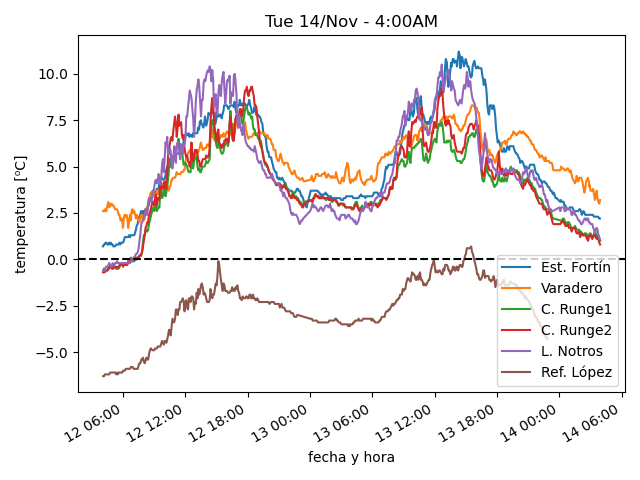
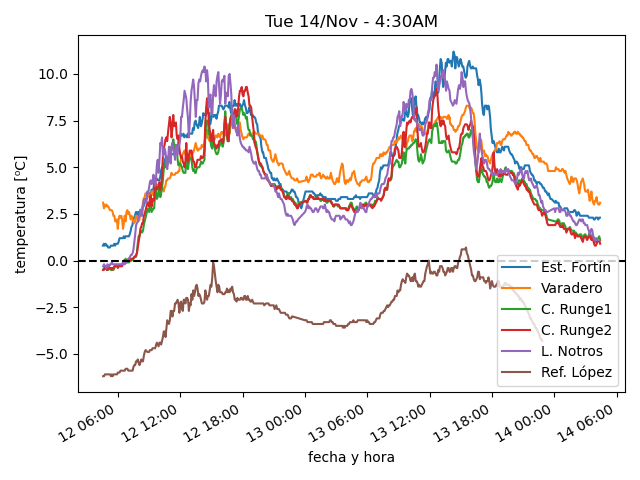
actualiza datos

diff --git a/estaciones/estacion2.html b/estaciones/estacion2.html
@@ -18,32 +18,32 @@
     </tr>
     <tr>
      <td class="stats_data">
-      3:54AM
+      4:24AM
      </td>
     </tr>
     <tr>
      <td class="stats_data">
-      3.2⁰C
+      3.1⁰C
      </td>
     </tr>
     <tr>
      <td class="stats_data">
-      -1.9⁰C
+      -2.4⁰C
      </td>
     </tr>
     <tr>
      <td class="stats_data">
-      69.0%
+      67.5%
      </td>
     </tr>
     <tr>
      <td class="stats_data">
-      1019.64hPa
+      1019.34hPa
      </td>
     </tr>
     <tr>
      <td class="stats_data">
-      7.4/11.1 km/hr W
+      10.2/14.2 km/hr WNW
      </td>
     </tr>
     <tr>

diff --git a/estaciones/estacion1.html b/estaciones/estacion1.html
@@ -18,17 +18,17 @@
     </tr>
     <tr>
      <td class="stats_data">
-      3:53AM
+      4:23AM
      </td>
     </tr>
     <tr>
      <td class="stats_data">
-      2.2⁰C
+      2.3⁰C
      </td>
     </tr>
     <tr>
      <td class="stats_data">
-      -3.7⁰C
+      -3.6⁰C
      </td>
     </tr>
     <tr>
@@ -38,12 +38,12 @@
     </tr>
     <tr>
      <td class="stats_data">
-      1014.22hPa
+      1013.88hPa
      </td>
     </tr>
     <tr>
      <td class="stats_data">
-      8.0/26.6 km/hr W
+      11.3/17.7 km/hr WSW
      </td>
     </tr>
     <tr>

diff --git a/estaciones/estacion4.html b/estaciones/estacion4.html
@@ -18,12 +18,12 @@
     </tr>
     <tr>
      <td class="stats_data">
-      3:54AM
+      4:24AM
      </td>
     </tr>
     <tr>
      <td class="stats_data">
-      0.8⁰C
+      0.9⁰C
      </td>
     </tr>
     <tr>
@@ -33,17 +33,17 @@
     </tr>
     <tr>
      <td class="stats_data">
-      69.1%
+      68.9%
      </td>
     </tr>
     <tr>
      <td class="stats_data">
-      1012.94hPa
+      1012.84hPa
      </td>
     </tr>
     <tr>
      <td class="stats_data">
-      1.0/1.6 km/hr SSW
+      0.2/0.5 km/hr SSW
      </td>
     </tr>
     <tr>

diff --git a/estaciones/estacion3.html b/estaciones/estacion3.html
@@ -18,12 +18,12 @@
     </tr>
     <tr>
      <td class="stats_data">
-      3:54AM
+      4:24AM
      </td>
     </tr>
     <tr>
      <td class="stats_data">
-      1.0⁰C
+      1.1⁰C
      </td>
     </tr>
     <tr>
@@ -33,17 +33,17 @@
     </tr>
     <tr>
      <td class="stats_data">
-      72.0%
+      71.3%
      </td>
     </tr>
     <tr>
      <td class="stats_data">
-      1004.23hPa
+      1004.13hPa
      </td>
     </tr>
     <tr>
      <td class="stats_data">
-      5.0/6.8 km/hr SW
+      1.9/3.0 km/hr WSW
      </td>
     </tr>
     <tr>

diff --git a/estaciones/estacion5.html b/estaciones/estacion5.html
@@ -18,7 +18,7 @@
     </tr>
     <tr>
      <td class="stats_data">
-      3:50AM
+      4:20AM
      </td>
     </tr>
     <tr>
@@ -38,7 +38,7 @@
     </tr>
     <tr>
      <td class="stats_data">
-      1017.98hPa
+      1017.95hPa
      </td>
     </tr>
     <tr>
